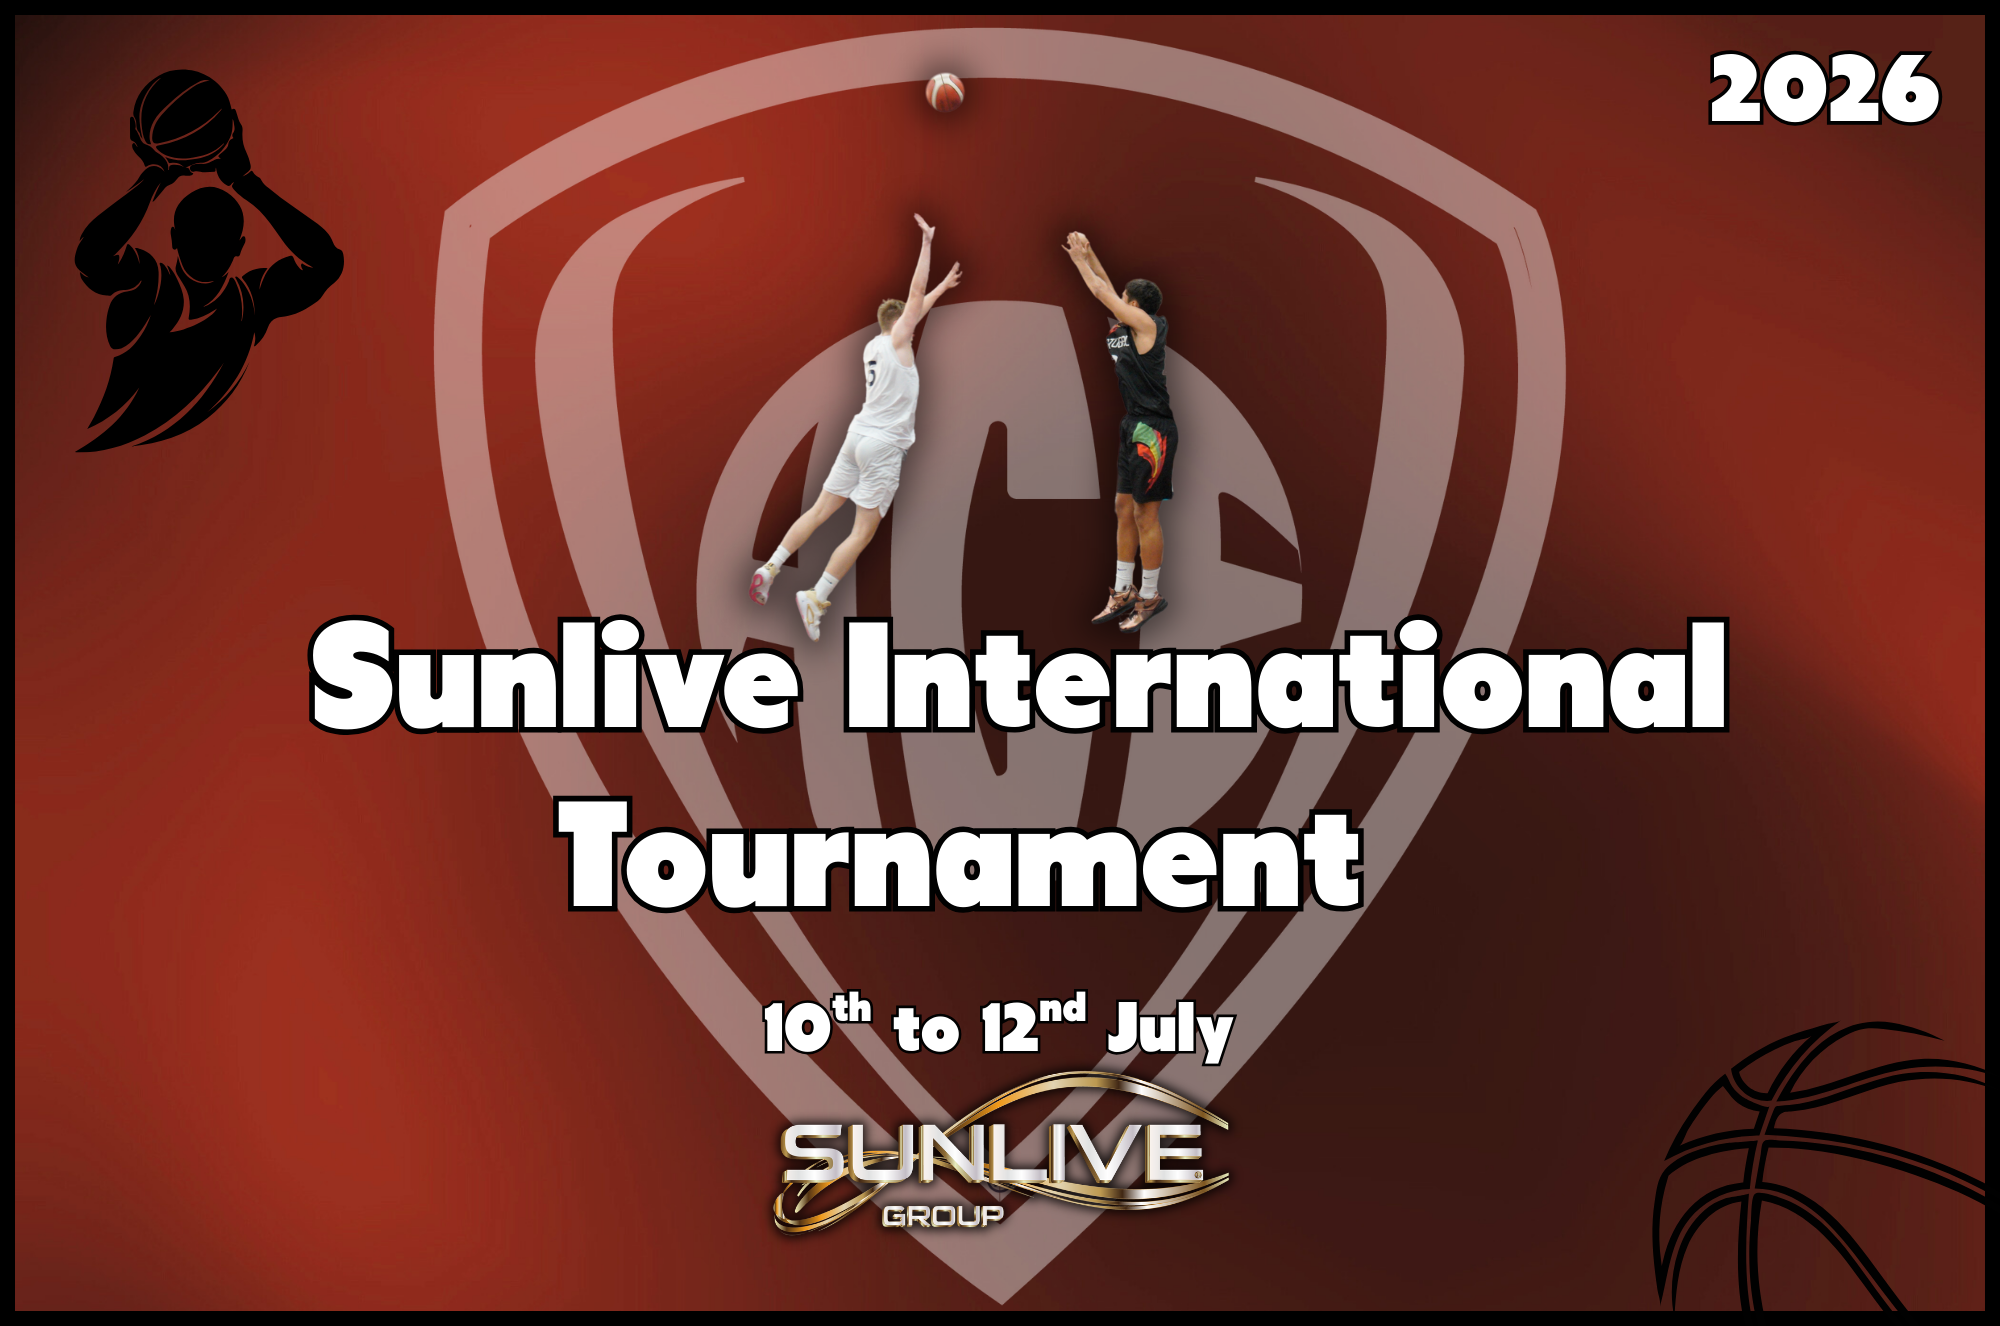
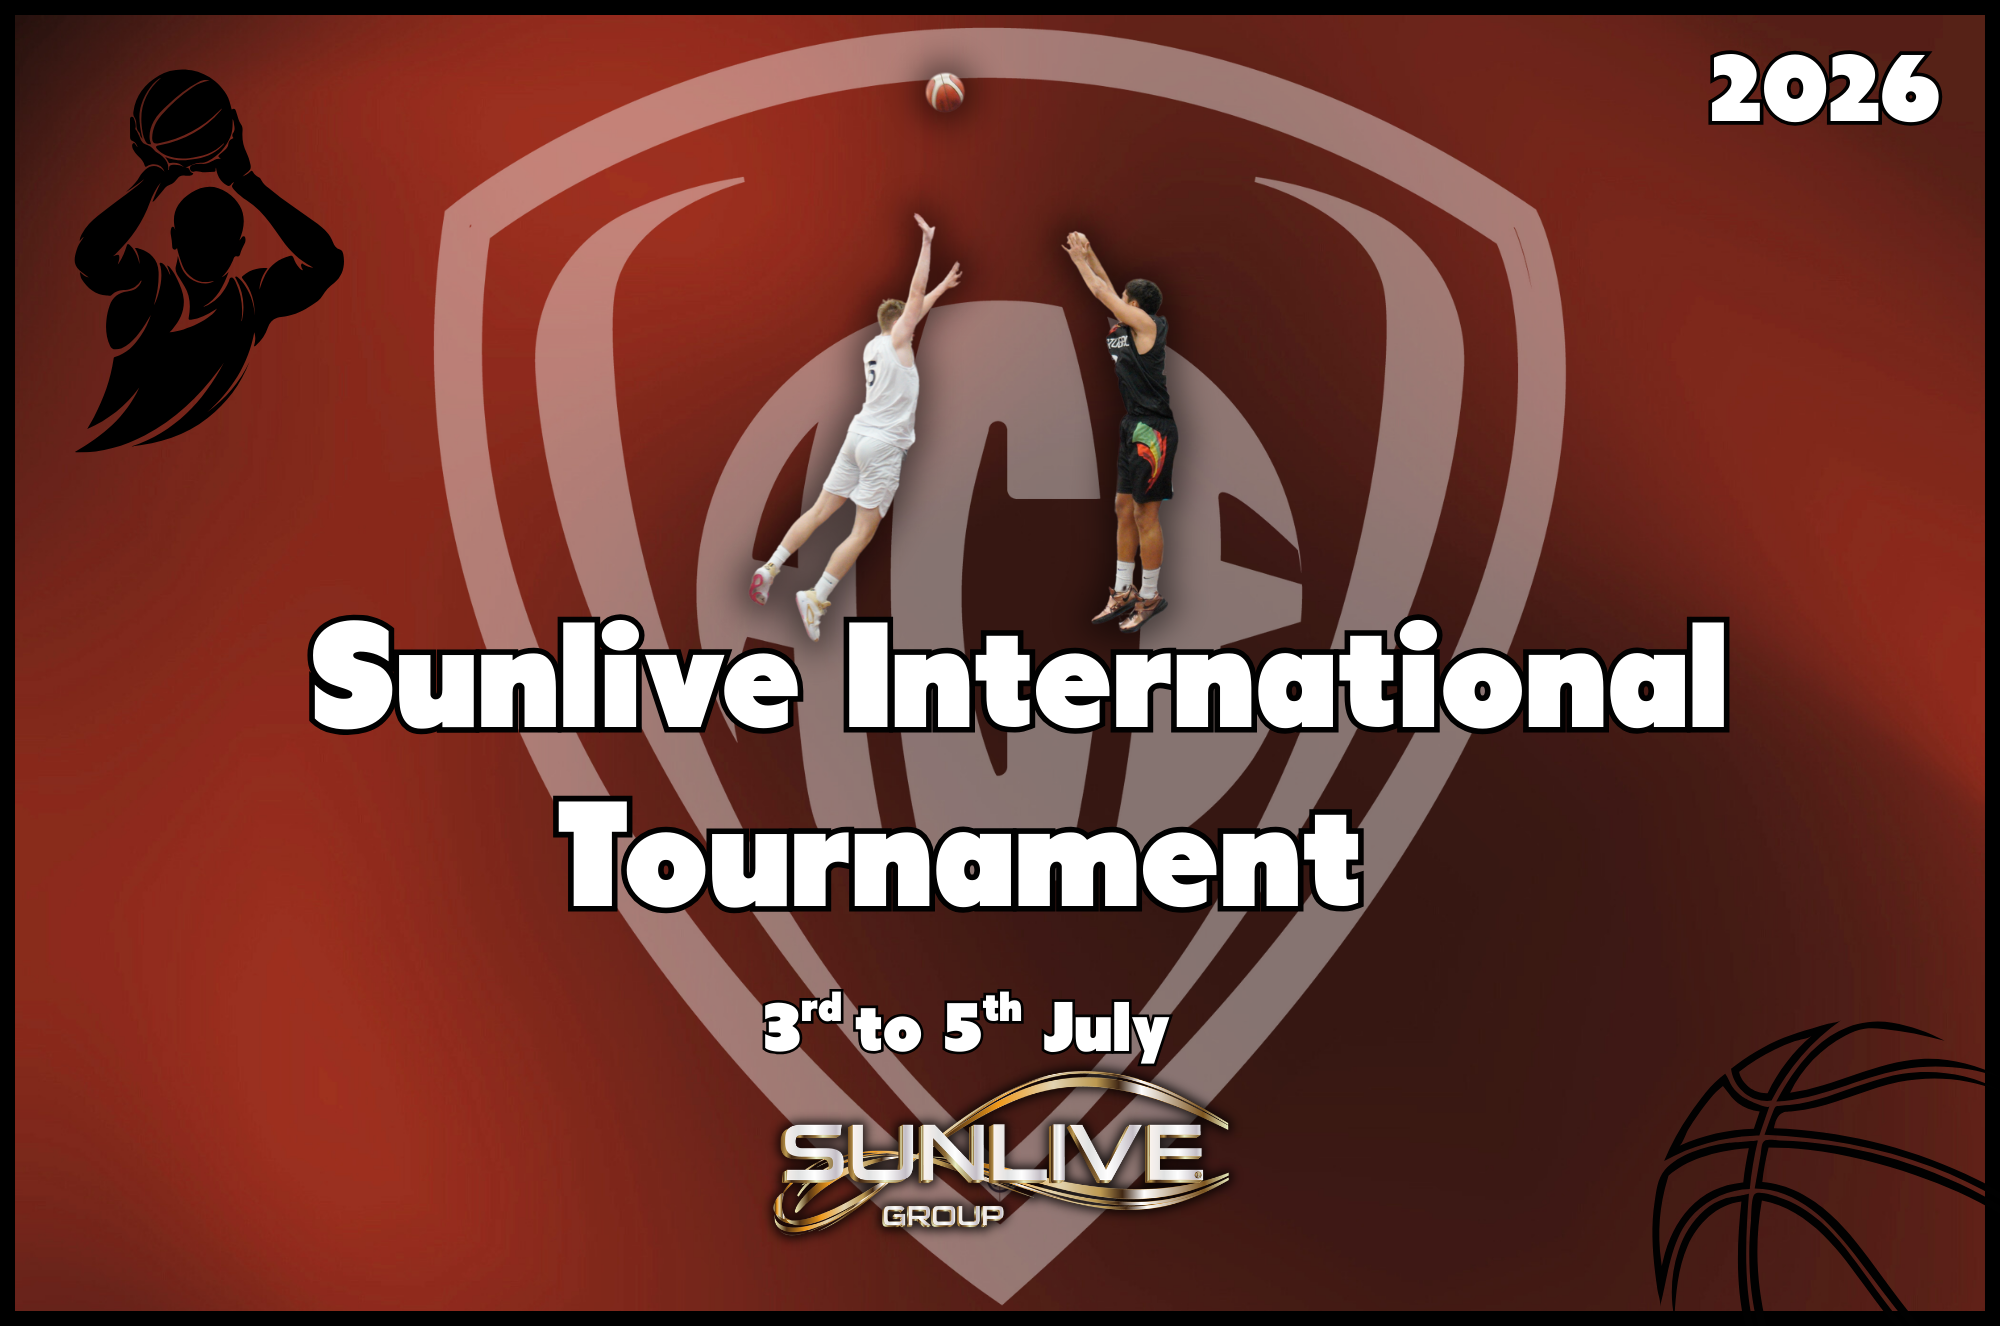
update

Changed region(s): [[0.372, 0.7421, 0.62, 0.8039]]

diff --git a/src/config/content/home.content.js b/src/config/content/home.content.js
@@ -278,7 +278,7 @@ const events = {
       href: "",
       year: 2026,
       month: "July",
-      dateText: "10–12 July, 2026",
+      dateText: "3–5 July, 2026",
       tbd: false,
       sport: "Basket Sub 20",
       start: { year: 2026, month: 7, day: 3 },
